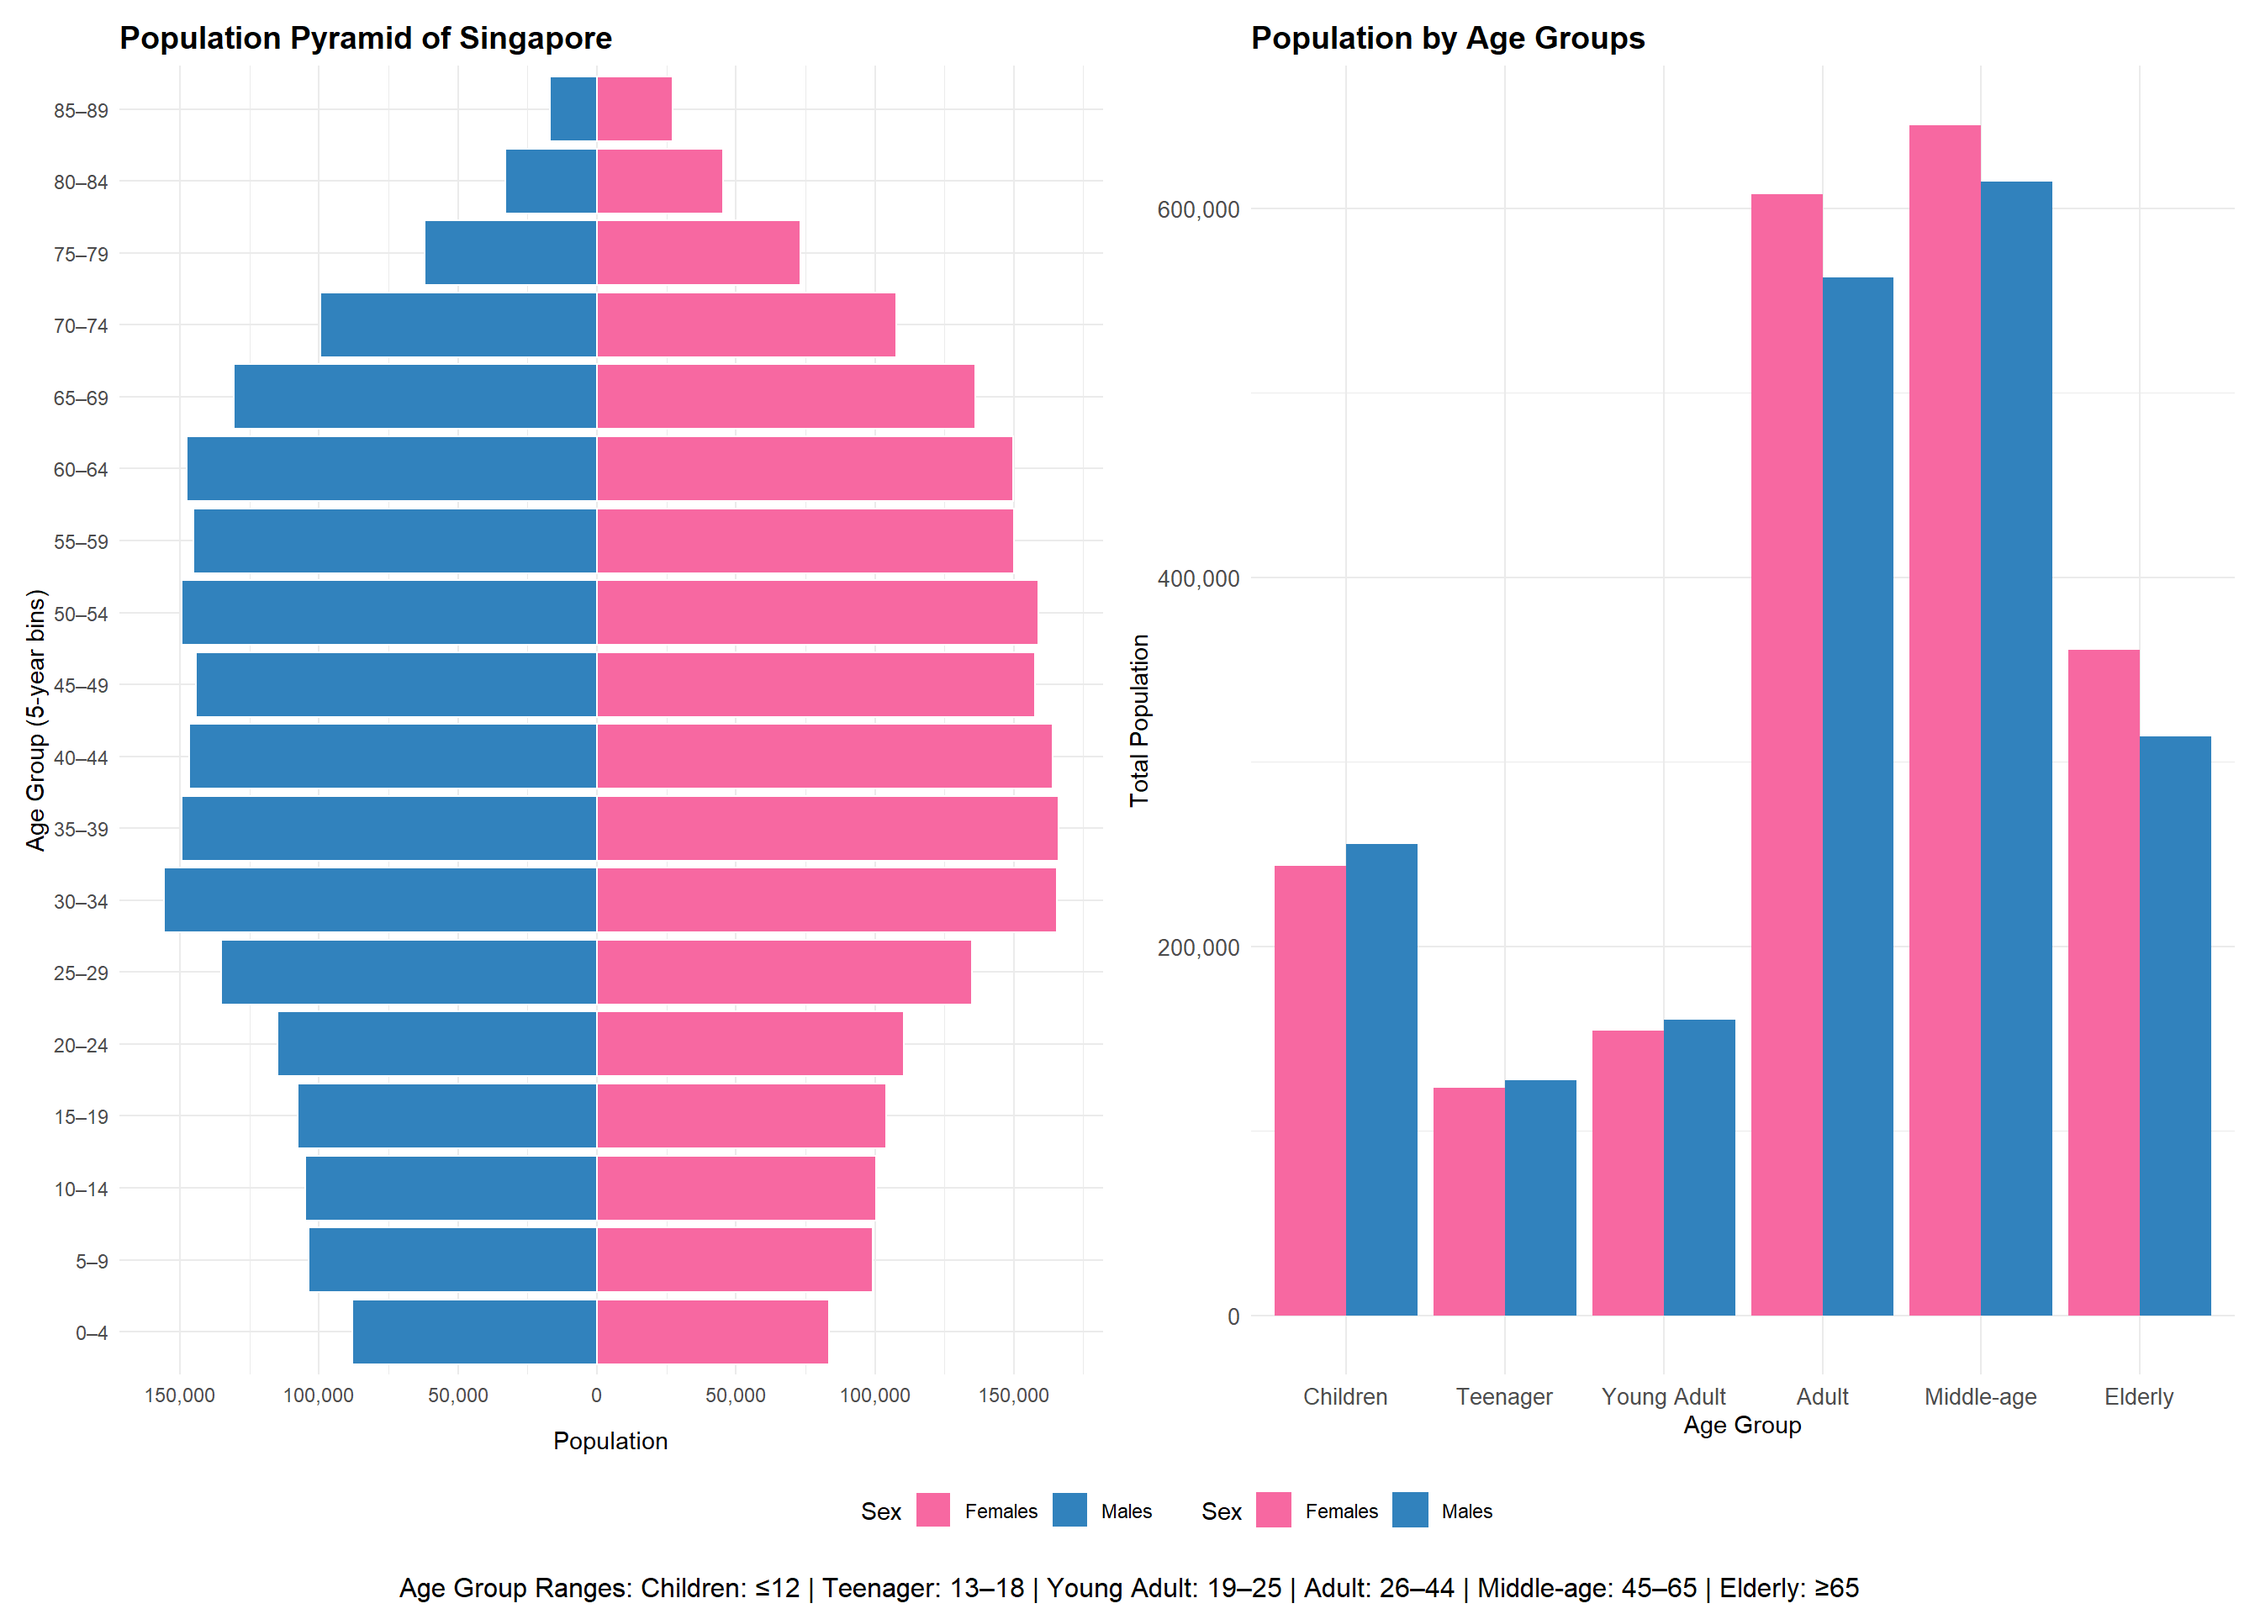
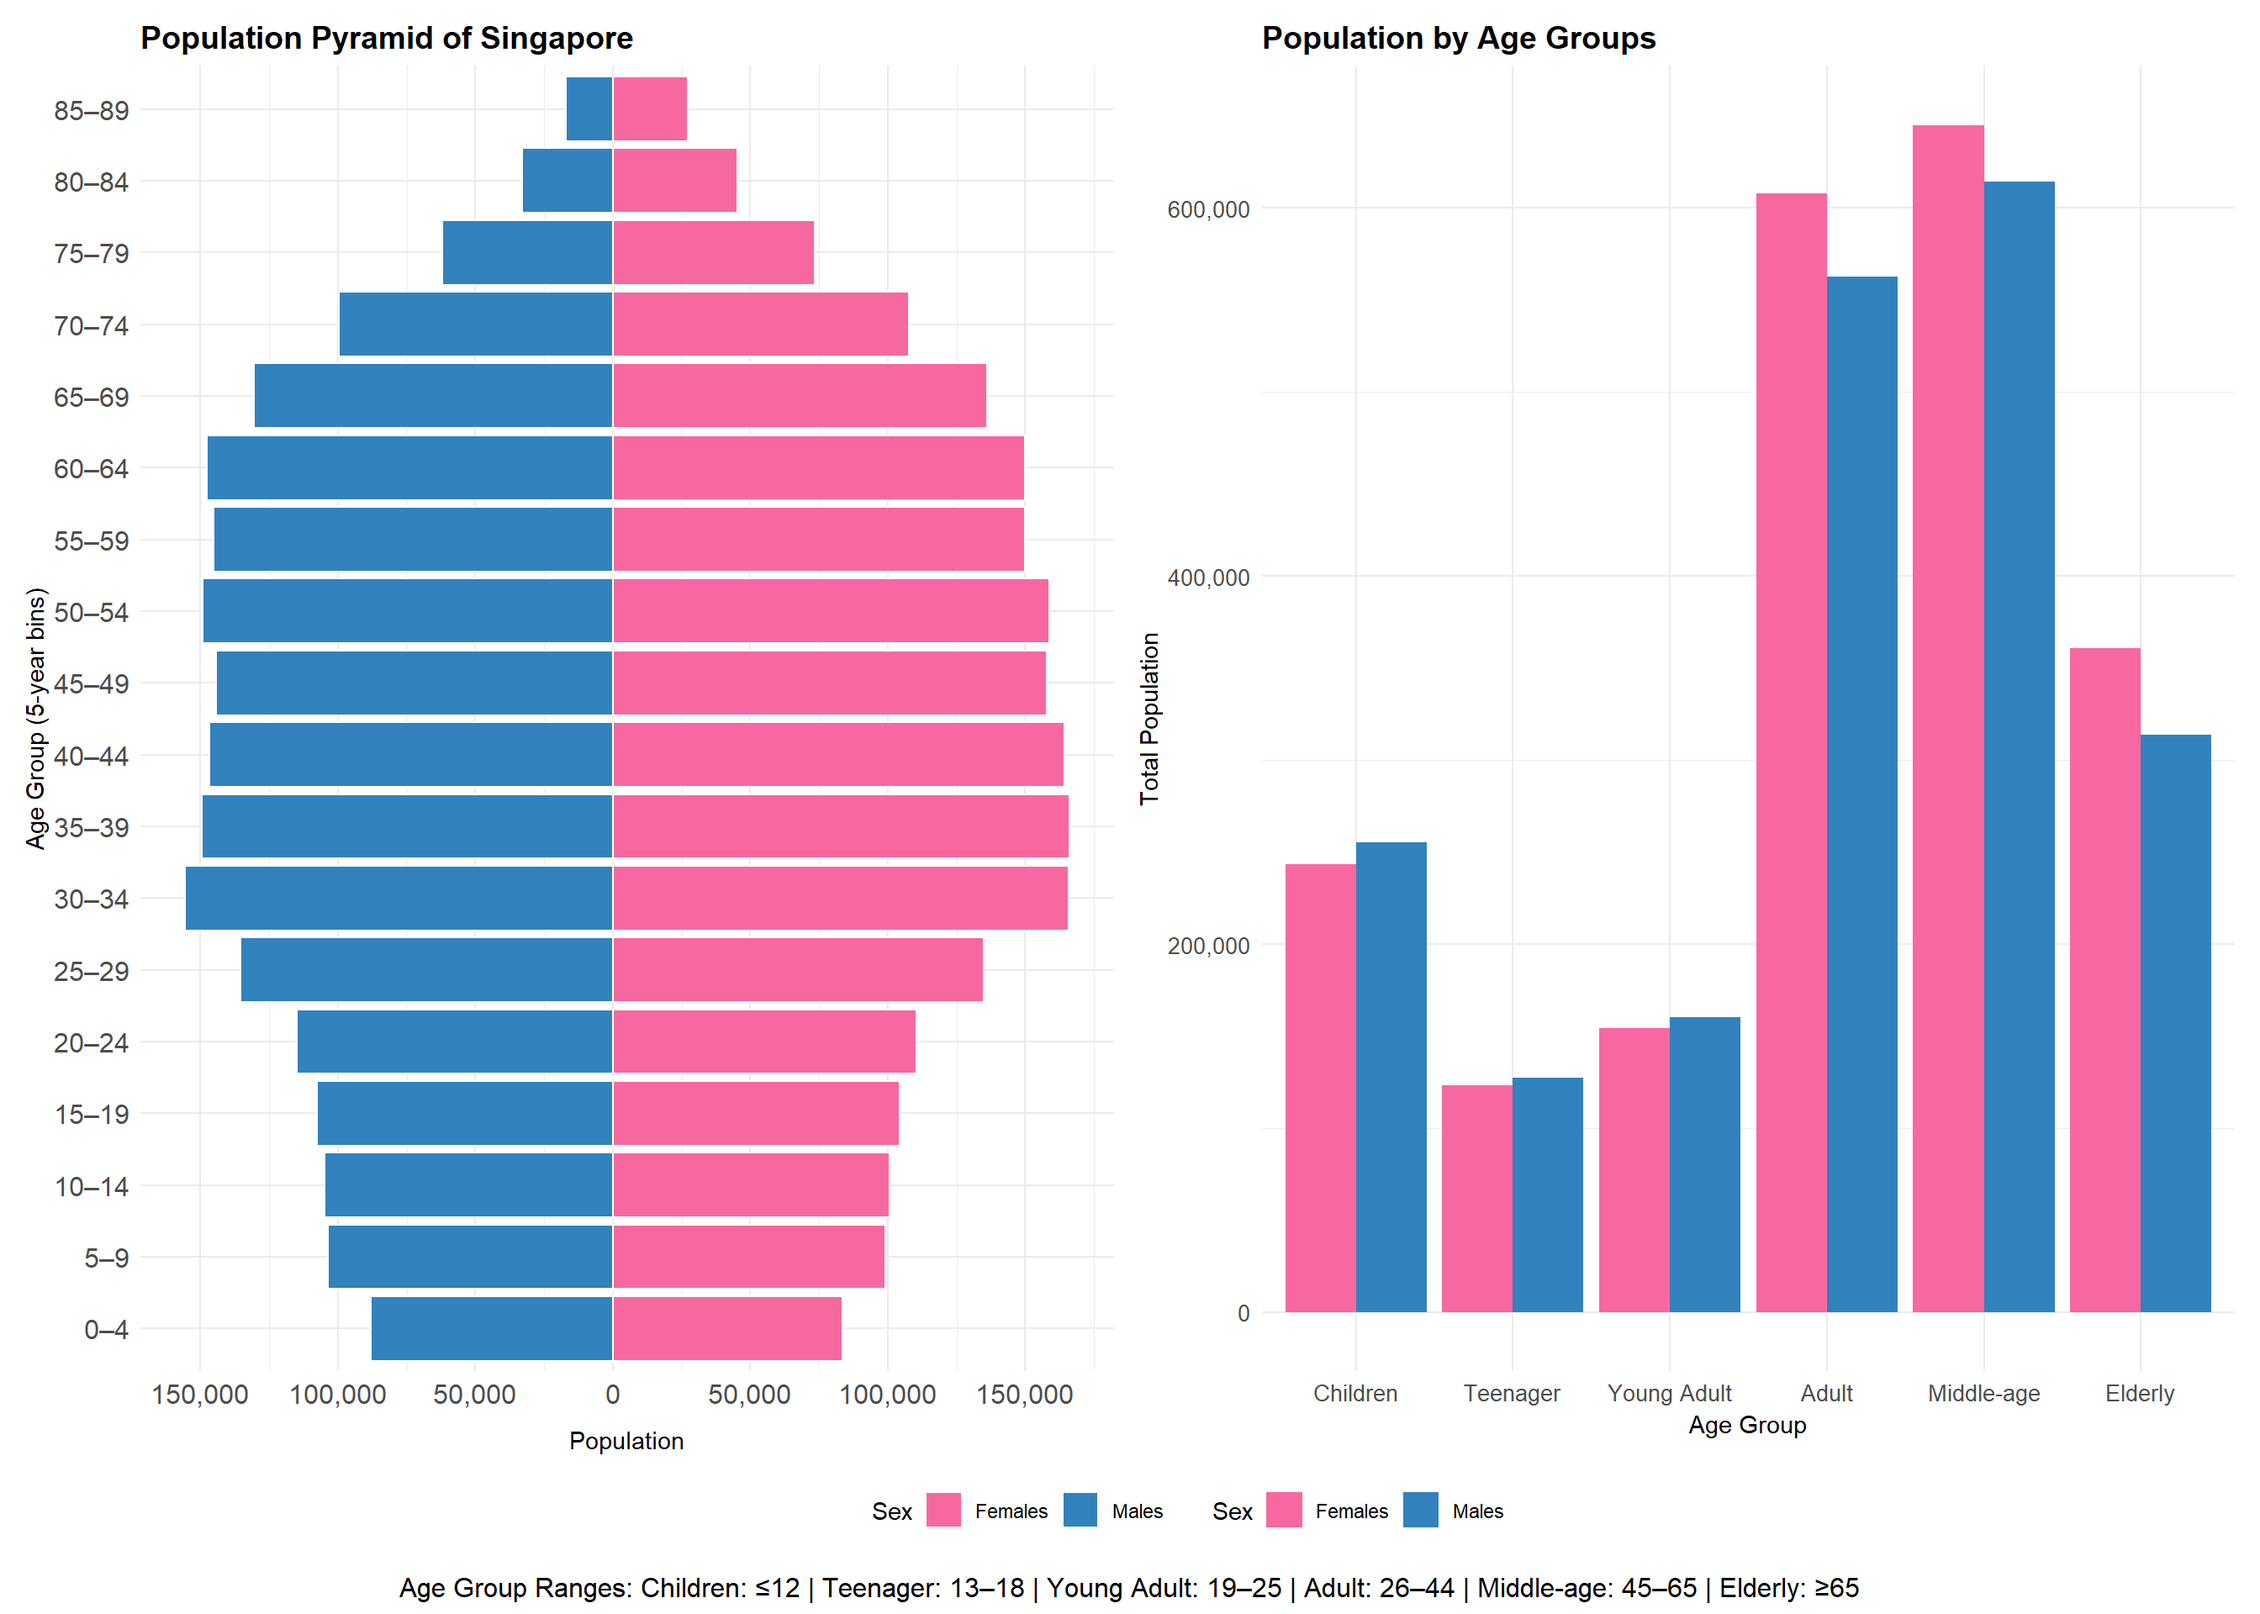
commit after editing

diff --git a/_site/TakeHome_Ex/TakeHome_Ex01/TakeHome_Ex01.html b/_site/TakeHome_Ex/TakeHome_Ex01/TakeHome_Ex01.html
@@ -256,7 +256,7 @@ pre > code.sourceCode > span > a:first-child::before { text-decoration: underlin
     <div>
     <div class="quarto-title-meta-heading">Modified</div>
     <div class="quarto-title-meta-contents">
-      <p class="date-modified">May 2, 2025</p>
+      <p class="date-modified">May 3, 2025</p>
     </div>
   </div>
     
@@ -469,7 +469,7 @@ $ Time &lt;dbl&gt; 2024, 2024, 2024, 2024, 2024, 2024, 2024, 2024, 2024, 2024, 2
 <span id="cb9-15"><a href="#cb9-15" aria-hidden="true" tabindex="-1"></a>  <span class="fu">theme_minimal</span>() <span class="sc">+</span></span>
 <span id="cb9-16"><a href="#cb9-16" aria-hidden="true" tabindex="-1"></a>  <span class="fu">theme</span>(</span>
 <span id="cb9-17"><a href="#cb9-17" aria-hidden="true" tabindex="-1"></a>    <span class="at">plot.title =</span> <span class="fu">element_text</span>(<span class="at">face =</span> <span class="st">"bold"</span>, <span class="at">size =</span> <span class="dv">14</span>),</span>
-<span id="cb9-18"><a href="#cb9-18" aria-hidden="true" tabindex="-1"></a>    <span class="at">axis.text =</span> <span class="fu">element_text</span>(<span class="at">size =</span> <span class="dv">9</span>),</span>
+<span id="cb9-18"><a href="#cb9-18" aria-hidden="true" tabindex="-1"></a>    <span class="at">axis.text =</span> <span class="fu">element_text</span>(<span class="at">size =</span> <span class="dv">12</span>),</span>
 <span id="cb9-19"><a href="#cb9-19" aria-hidden="true" tabindex="-1"></a>    <span class="at">axis.title.x =</span> <span class="fu">element_text</span>(<span class="at">margin =</span> <span class="fu">margin</span>(<span class="at">t =</span> <span class="dv">10</span>)),</span>
 <span id="cb9-20"><a href="#cb9-20" aria-hidden="true" tabindex="-1"></a>    <span class="at">legend.position =</span> <span class="st">"none"</span>  <span class="co"># hide this legend</span></span>
 <span id="cb9-21"><a href="#cb9-21" aria-hidden="true" tabindex="-1"></a>  )</span>
